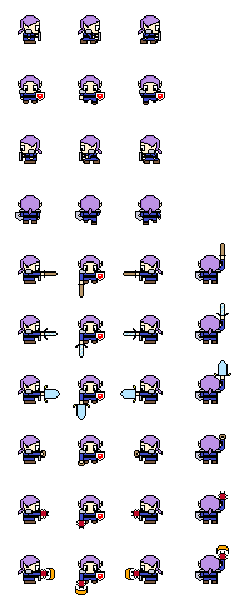
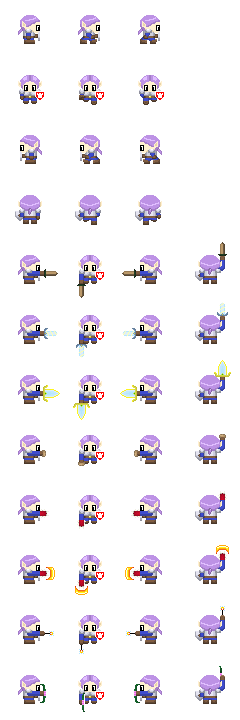
Added new sprite and bow/wand animations
Shield sprite sheet coming soon.

diff --git a/lib/game/entities/player.js b/lib/game/entities/player.js
@@ -137,6 +137,18 @@ EntityPlayer = ig.Entity.extend({
 		this.addAnim('fist3AttackLeft', 0.2, [38]);
 		this.addAnim('fist3AttackRight', 0.2, [36]);
 
+		// magic wand animations
+		this.addAnim('wandAttackUp', 0.2, [43]);
+		this.addAnim('wandAttackDown', 0.2, [41]);
+		this.addAnim('wandAttackLeft', 0.2, [42]);
+		this.addAnim('wandAttackRight', 0.2, [40]);
+
+		// bow animations
+		this.addAnim('bowAttackUp', 0.2, [47]);
+		this.addAnim('bowAttackDown', 0.2, [45]);
+		this.addAnim('bowAttackLeft', 0.2, [46]);
+		this.addAnim('bowAttackRight', 0.2, [44]);
+
 	},
 
 	ready: function() {
@@ -357,6 +369,8 @@ EntityPlayer = ig.Entity.extend({
 		this.handleSwordEndAnimation();
 		this.handleFistEndAnimation();
 		this.handleMagicwandUsage();
+		this.handleWandEndAnimation();
+		this.handleBowEndAnimation();
 	},
 
 	handleBoomerangUsage: function() {
@@ -374,24 +388,49 @@ EntityPlayer = ig.Entity.extend({
 				}
 				if(this.currentAnim == this.anims.right || 
 					this.currentAnim == this.anims.idleRight) {
+					this.currentAnim = this.anims.wandAttackRight;
 					ig.game.spawnEntity(EntityArcaneblock, this.pos.x+27, this.pos.y-7, 
 						{"magicwandLevel":this.magicwandLevel});
 				} else if(this.currentAnim == this.anims.left || 
 					this.currentAnim == this.anims.idleLeft) {
+					this.currentAnim = this.anims.wandAttackLeft;
 					ig.game.spawnEntity(EntityArcaneblock, this.pos.x-38, this.pos.y-10, 
 						{"magicwandLevel":this.magicwandLevel});
 				} else if(this.currentAnim == this.anims.up || 
 					this.currentAnim == this.anims.idleUp) {
+					this.currentAnim = this.anims.wandAttackUp;
 					ig.game.spawnEntity(EntityArcaneblock, this.pos.x-5, this.pos.y-47, 
 						{"magicwandLevel":this.magicwandLevel});
 				} else if(this.currentAnim == this.anims.down || 
 					this.currentAnim == this.anims.idle) {
+					this.currentAnim = this.anims.wandAttackDown;
 					ig.game.spawnEntity(EntityArcaneblock, this.pos.x-5, this.pos.y+27, 
 						{"magicwandLevel":this.magicwandLevel});
 				}
 				this.globalCooldown.set(2);
+				this.moveCooldown.set(.2);
+				this.returnCooldown.set(.2);
 				
 			}
+		}
+	},
+
+	handleWandEndAnimation: function() {
+		if (this.currentAnim == this.anims.wandAttackRight &&
+			this.returnCooldown.delta() > 0) {
+			this.currentAnim = this.anims.idleRight;
+		}
+		else if (this.currentAnim == this.anims.wandAttackLeft &&
+			this.returnCooldown.delta() > 0) {
+			this.currentAnim = this.anims.idleLeft;
+		}
+		else if (this.currentAnim == this.anims.wandAttackUp &&
+			this.returnCooldown.delta() > 0) {
+			this.currentAnim = this.anims.idleUp;
+		}
+		else if (this.currentAnim == this.anims.wandAttackDown &&
+			this.returnCooldown.delta() > 0){
+			this.currentAnim = this.anims.idle;
 		}
 	},
 
@@ -399,23 +438,48 @@ EntityPlayer = ig.Entity.extend({
 		if (this.secondary == 'bow' && ig.input.state('secondary') && this.globalCooldown.delta() > 0) {
 			if(this.currentAnim == this.anims.right || 
 				this.currentAnim == this.anims.idleRight) {
+				this.currentAnim = this.anims.bowAttackRight;
 				ig.game.spawnEntity(EntityPlayerarrow, this.pos.x+30, this.pos.y+3, 
 					{vel: {x: 600, y: 0}, "bowLevel":this.bowLevel});
 			} else if(this.currentAnim == this.anims.left || 
 				this.currentAnim == this.anims.idleLeft) {
+				this.currentAnim = this.anims.bowAttackLeft;
 				ig.game.spawnEntity(EntityPlayerarrow, this.pos.x-30, this.pos.y+3, 
 					{vel: {x: -600, y: 0}, "bowLevel":this.bowLevel});
 			} else if(this.currentAnim == this.anims.up || 
 				this.currentAnim == this.anims.idleUp) {
+				this.currentAnim = this.anims.bowAttackUp;
 				ig.game.spawnEntity(EntityPlayerarrow, this.pos.x+5, this.pos.y-25, 
 					{vel: {x: 0, y: -600}, "bowLevel":this.bowLevel});
 			} else if(this.currentAnim == this.anims.down || 
 				this.currentAnim == this.anims.idle) {
+				this.currentAnim = this.anims.bowAttackDown;
 				ig.game.spawnEntity(EntityPlayerarrow, this.pos.x+5, this.pos.y+30, 
 					{vel: {x: 0, y: 600}, "bowLevel":this.bowLevel});
 			}
 			ig.game.rangedUseSound.play();
 			this.globalCooldown.set(.9);
+			this.moveCooldown.set(.2);
+			this.returnCooldown.set(.2);
+		}
+	},
+
+	handleBowEndAnimation: function() {
+		if (this.currentAnim == this.anims.bowAttackRight &&
+			this.returnCooldown.delta() > 0) {
+			this.currentAnim = this.anims.idleRight;
+		}
+		else if (this.currentAnim == this.anims.bowAttackLeft &&
+			this.returnCooldown.delta() > 0) {
+			this.currentAnim = this.anims.idleLeft;
+		}
+		else if (this.currentAnim == this.anims.bowAttackUp &&
+			this.returnCooldown.delta() > 0) {
+			this.currentAnim = this.anims.idleUp;
+		}
+		else if (this.currentAnim == this.anims.bowAttackDown &&
+			this.returnCooldown.delta() > 0){
+			this.currentAnim = this.anims.idle;
 		}
 	},
 
